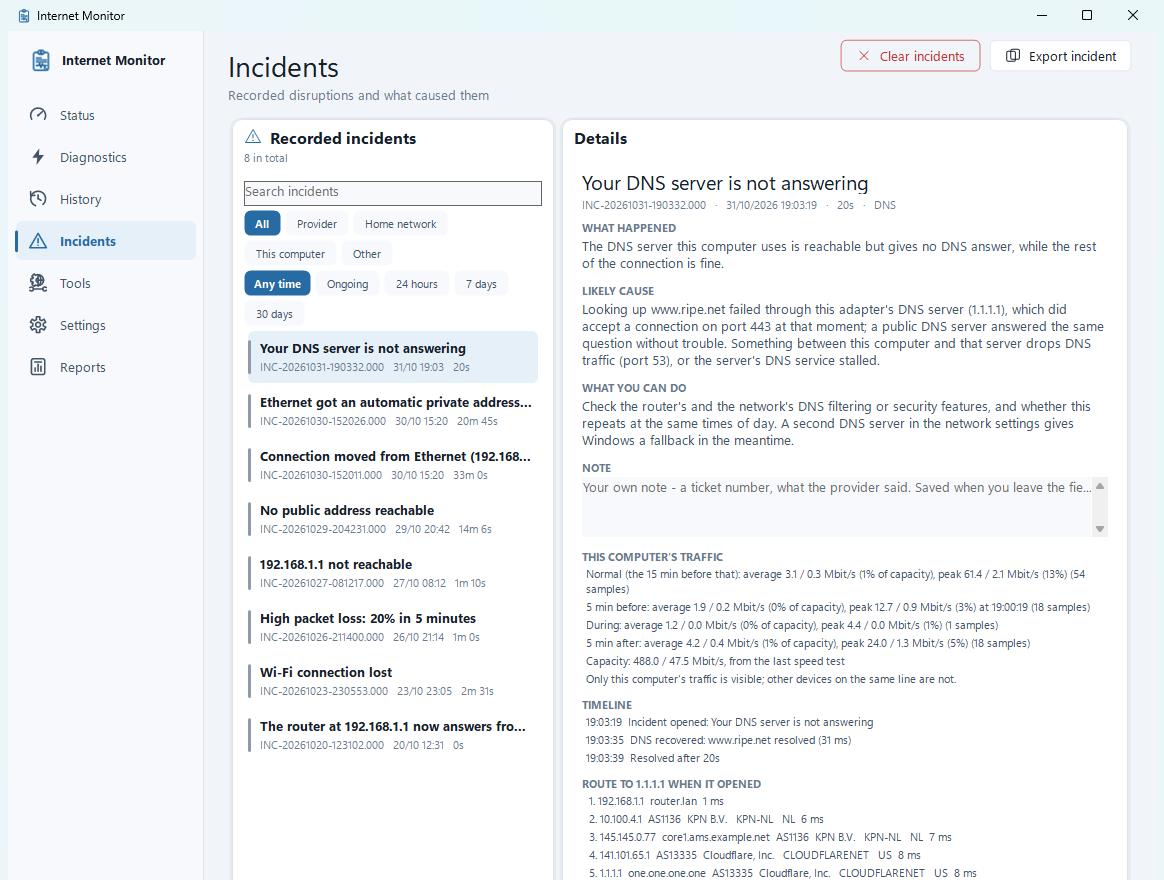
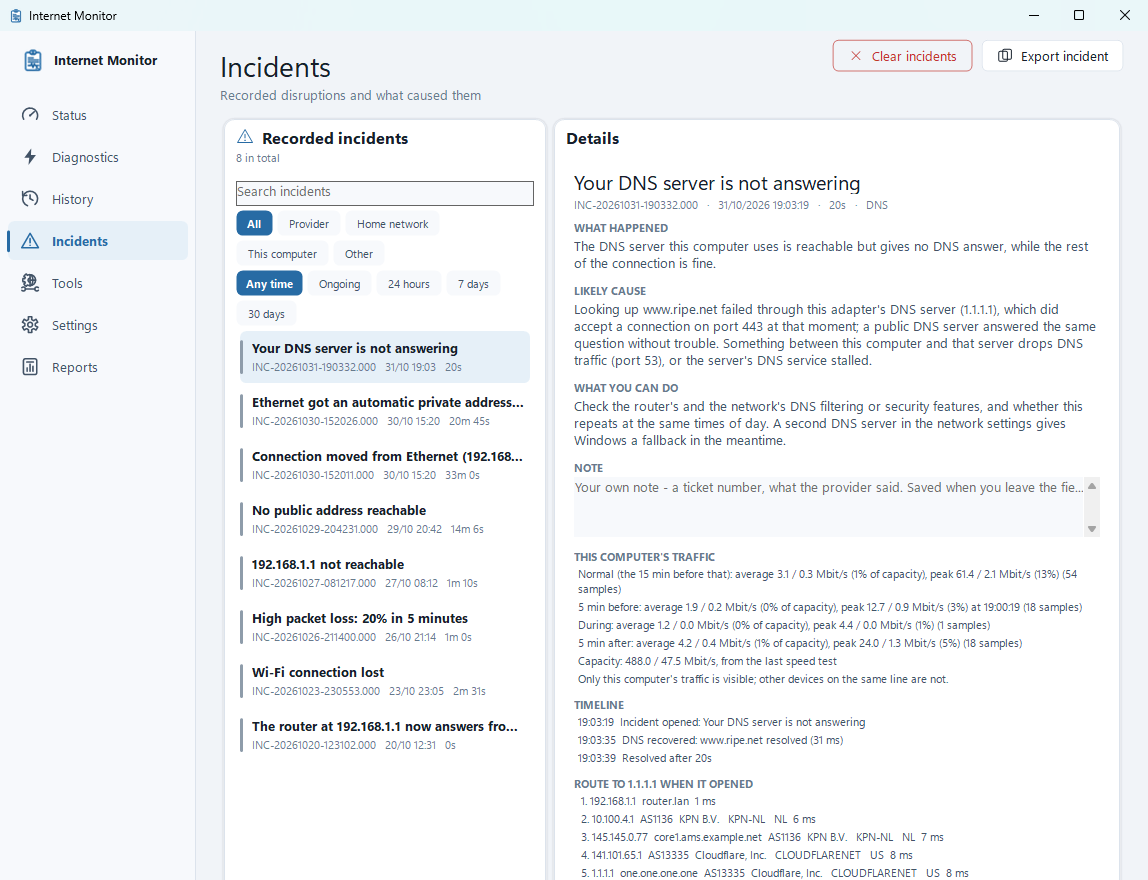
docs/screenshots: the window's invisible resize border is trimmed off every capture - the grey band read as a hazy frame once the README scaled the pictures

diff --git a/tools/Screenshots/finish.py b/tools/Screenshots/finish.py
@@ -22,9 +22,19 @@ def pixelate(img, box, factor=9):
     img.paste(small.resize(region.size, Image.NEAREST), box)
 
 
-def save(name, img, crop=None):
+# PrintWindow includes the window's invisible resize border: an 8 px grey band left, right and
+# below the window that reads as a hazy frame once the README scales the picture down.
+FRAME = 8
+RAW_HEIGHT = 1100
+
+
+def save(name, img, crop=None, frame=True):
     if crop is not None:
         img = img.crop(crop)
+    if frame:
+        # The bottom band is only there when the picture reaches the window's bottom edge.
+        bottom = img.height - FRAME if crop is None or crop[3] >= RAW_HEIGHT else img.height
+        img = img.crop((FRAME, 0, img.width - FRAME, bottom))
     img.save(os.path.join(out, name), optimize=True)
     print(f"  {name} {img.size[0]}x{img.size[1]}")
 
@@ -65,4 +75,4 @@ save("history-traffic.png", load("history-traffic.png"))
 save("history-packet-loss.png", load("history-packet-loss.png"))
 save("history-speedtest.png", load("history-speedtest.png"))
 save("settings-network.png", load("settings-network.png"), (0, 232, 1164, 705))  # the Network changes and Network health cards
-save("provider-report.png", load("provider-report.png"))
+save("provider-report.png", load("provider-report.png"), frame=False)
